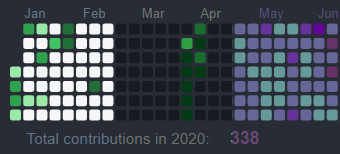
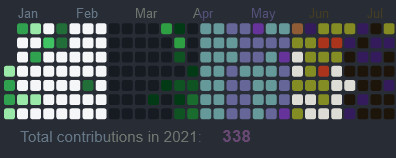
fixed memory leak

diff --git a/src/index.js b/src/index.js
@@ -9,14 +9,18 @@ const colors = {
     "THIRD_QUARTILE": '#196c2e', "FOURTH_QUARTILE": '#2ea043', plainFont: "#6C756E", highlightedFont: "#749179"},
     light: {"NONE": '#f5f6f8', "FIRST_QUARTILE": '#9be9a8', "SECOND_QUARTILE": '#40c463',"THIRD_QUARTILE": '#30a14e', 
     "FOURTH_QUARTILE": '#216e39', plainFont: "#657786", highlightedFont: "#48524d"},
-    purpleDark: {
-        "NONE": '#669999', 
-        "FIRST_QUARTILE": '#666699', 
-        "SECOND_QUARTILE": '#653399',
-        "THIRD_QUARTILE": '#663366', 
-        "FOURTH_QUARTILE": '#650099', 
-        plainFont: "#545179", 
-        highlightedFont: "#674973"
+    purpleDark: {"NONE": '#669999', "FIRST_QUARTILE": '#666699', "SECOND_QUARTILE": '#653399',
+    "THIRD_QUARTILE": '#663366', "FOURTH_QUARTILE": '#650099', plainFont: "#545179", highlightedFont: "#674973"},
+    jokerLight: {"NONE": '#ddddd5', "FIRST_QUARTILE": '#848c24', "SECOND_QUARTILE": '#905c35',
+    "THIRD_QUARTILE": '#ab341c', "FOURTH_QUARTILE": '#331b5c', plainFont: "#433c24", highlightedFont: "#1d140a"},
+    jokerDark: {
+        "NONE": '#1d140a', 
+        "FIRST_QUARTILE": '#331b5c', 
+        "SECOND_QUARTILE": '#ab341c',
+        "THIRD_QUARTILE": '#858a23', 
+        "FOURTH_QUARTILE": '#ddddd5', 
+        plainFont: "#433c24", 
+        highlightedFont: "#ab341c"
     }
 }
 
@@ -52,9 +56,11 @@ query ($userName:String!, $toDate:DateTime!, $fromDate: DateTime!) {
   }
 `;
 
-function GithubContributionCount({userName, toDate, fromDate, theme}) {
+function GithubContributionCount({userName, toDate, fromDate, theme, vertical}) {
     // Memoization allows the `useGraphQL` hook to avoid work in following renders
     // with the same GraphQL operation.
+    const [width, setWidth] = useState(640);
+    const [height, setHeight] = useState(137);
 
     const operation = React.useMemo(
       () => ({
@@ -91,13 +97,13 @@ function GithubContributionCount({userName, toDate, fromDate, theme}) {
         const weekData = contributions.weeks;
         const monthData = contributions.months;
         return (
-            <svg width="640" height="137">
+            <svg width={vertical ? height + 60 : width} height={vertical ? width / 1.5 : height}>
                 {
                     monthData.map((month, i) => (
                         <text
                             style={{fontFamily: 'Helvetica', fontSize: '12px'}}
-                            x={ 13 + i * 640 / 12} 
-                            y="20"
+                            x={vertical ? 35 : 13 + (i * width / 12)} 
+                            y={vertical ? 10 + (i * width  / 20) : 20}
                             fill={colors[theme].plainFont}
                             key={month.name}>{month.name}</text>
                         ))
@@ -107,11 +113,11 @@ function GithubContributionCount({userName, toDate, fromDate, theme}) {
                         week.contributionDays.map(day => (
                             <React.Fragment key={day.date}>
                                 <rect 
-                                    width="10" 
-                                    height="10" 
+                                    width={10} 
+                                    height={vertical ? 6 : 10} 
                                     fill={colors[theme][day.contributionLevel]}
-                                    x={i * 12} 
-                                    y={25 + day.weekday * 13}
+                                    x={vertical ? 60 + day.weekday * 11 : i * 12} 
+                                    y={vertical ? i * 7 : 25 + day.weekday * 13}
                                     rx="2"
                                     ry="2">
                                 </rect>
@@ -123,13 +129,13 @@ function GithubContributionCount({userName, toDate, fromDate, theme}) {
                     style={{fontFamily: 'Helvetica', fontSize: '14px'}}
                     fill={colors[theme].plainFont}
                     x="15" 
-                    y="134">Total contributions in {monthData[0].year}:
+                    y={vertical ?  2 + width / 1.6 : 134}>Total contributions in {monthData[0].year}:
                 </text>
                 <text 
                     style={{fontFamily: 'Helvetica', fontSize: '16px', fontWeight: 'bold'}}
                     fill={colors[theme].highlightedFont}
-                    x="200" 
-                    y="134">{contributions.totalContributions}
+                    x={vertical ? height / 1.7 : 200} 
+                    y={vertical ?  2 + width / 1.52 : 134}>{contributions.totalContributions}
                 </text>
             </svg>
         )
@@ -144,7 +150,7 @@ function GithubContributionCount({userName, toDate, fromDate, theme}) {
 
 const graphql = new GraphQL();
 
-function GithubContribution ({userName, theme}) {
+function GithubContribution ({userName, theme, vertical}) {
 
     const [dateRange, setDates] = useState({
         year: new Date().getFullYear(),
@@ -178,7 +184,12 @@ function GithubContribution ({userName, theme}) {
     return (
         <div>
             <GraphQLProvider graphql={graphql}>
-                <GithubContributionCount userName={userName} toDate={dateRange.toDate} fromDate={dateRange.fromDate} theme={theme} />
+                <GithubContributionCount 
+                    userName={userName} 
+                    toDate={dateRange.toDate} 
+                    fromDate={dateRange.fromDate} 
+                    theme={theme} 
+                    vertical={vertical} />
                 <svg width="640" height="10">
                     <polyline 
                         onClick={e => nextYear(e)}

diff --git a/lib/index.js b/lib/index.js
@@ -59,6 +59,24 @@ var colors = {
     "FOURTH_QUARTILE": '#650099',
     plainFont: "#545179",
     highlightedFont: "#674973"
+  },
+  jokerLight: {
+    "NONE": '#ddddd5',
+    "FIRST_QUARTILE": '#848c24',
+    "SECOND_QUARTILE": '#905c35',
+    "THIRD_QUARTILE": '#ab341c',
+    "FOURTH_QUARTILE": '#331b5c',
+    plainFont: "#433c24",
+    highlightedFont: "#1d140a"
+  },
+  jokerDark: {
+    "NONE": '#1d140a',
+    "FIRST_QUARTILE": '#331b5c',
+    "SECOND_QUARTILE": '#ab341c',
+    "THIRD_QUARTILE": '#858a23',
+    "FOURTH_QUARTILE": '#ddddd5',
+    plainFont: "#433c24",
+    highlightedFont: "#ab341c"
   }
 };
 
@@ -75,10 +93,21 @@ function GithubContributionCount(_ref) {
   var userName = _ref.userName,
       toDate = _ref.toDate,
       fromDate = _ref.fromDate,
-      theme = _ref.theme;
+      theme = _ref.theme,
+      vertical = _ref.vertical;
 
   // Memoization allows the `useGraphQL` hook to avoid work in following renders
   // with the same GraphQL operation.
+  var _useState = (0, _react.useState)(640),
+      _useState2 = _slicedToArray(_useState, 2),
+      width = _useState2[0],
+      setWidth = _useState2[1];
+
+  var _useState3 = (0, _react.useState)(137),
+      _useState4 = _slicedToArray(_useState3, 2),
+      height = _useState4[0],
+      setHeight = _useState4[1];
+
   var operation = _react["default"].useMemo(function () {
     return {
       query: query,
@@ -112,16 +141,16 @@ function GithubContributionCount(_ref) {
     var weekData = contributions.weeks;
     var monthData = contributions.months;
     return /*#__PURE__*/_react["default"].createElement("svg", {
-      width: "640",
-      height: "137"
+      width: vertical ? height + 60 : width,
+      height: vertical ? width / 1.5 : height
     }, monthData.map(function (month, i) {
       return /*#__PURE__*/_react["default"].createElement("text", {
         style: {
           fontFamily: 'Helvetica',
           fontSize: '12px'
         },
-        x: 13 + i * 640 / 12,
-        y: "20",
+        x: vertical ? 35 : 13 + i * width / 12,
+        y: vertical ? 10 + i * width / 20 : 20,
         fill: colors[theme].plainFont,
         key: month.name
       }, month.name);
@@ -130,11 +159,11 @@ function GithubContributionCount(_ref) {
         return /*#__PURE__*/_react["default"].createElement(_react["default"].Fragment, {
           key: day.date
         }, /*#__PURE__*/_react["default"].createElement("rect", {
-          width: "10",
-          height: "10",
+          width: 10,
+          height: vertical ? 6 : 10,
           fill: colors[theme][day.contributionLevel],
-          x: i * 12,
-          y: 25 + day.weekday * 13,
+          x: vertical ? 60 + day.weekday * 11 : i * 12,
+          y: vertical ? i * 7 : 25 + day.weekday * 13,
           rx: "2",
           ry: "2"
         }));
@@ -146,7 +175,7 @@ function GithubContributionCount(_ref) {
       },
       fill: colors[theme].plainFont,
       x: "15",
-      y: "134"
+      y: vertical ? 2 + width / 1.6 : 134
     }, "Total contributions in ", monthData[0].year, ":"), /*#__PURE__*/_react["default"].createElement("text", {
       style: {
         fontFamily: 'Helvetica',
@@ -154,8 +183,8 @@ function GithubContributionCount(_ref) {
         fontWeight: 'bold'
       },
       fill: colors[theme].highlightedFont,
-      x: "200",
-      y: "134"
+      x: vertical ? height / 1.7 : 200,
+      y: vertical ? 2 + width / 1.52 : 134
     }, contributions.totalContributions));
   } else {
     return loading ? /*#__PURE__*/_react["default"].createElement(_lib["default"], {
@@ -169,16 +198,17 @@ var graphql = new _graphqlReact.GraphQL();
 
 function GithubContribution(_ref2) {
   var userName = _ref2.userName,
-      theme = _ref2.theme;
+      theme = _ref2.theme,
+      vertical = _ref2.vertical;
 
-  var _useState = (0, _react.useState)({
+  var _useState5 = (0, _react.useState)({
     year: new Date().getFullYear(),
     toDate: new Date().toISOString(),
     fromDate: new Date("January 01 ".concat(new Date().getFullYear(), " 00:00:01 GMT-00:00")).toISOString()
   }),
-      _useState2 = _slicedToArray(_useState, 2),
-      dateRange = _useState2[0],
-      setDates = _useState2[1];
+      _useState6 = _slicedToArray(_useState5, 2),
+      dateRange = _useState6[0],
+      setDates = _useState6[1];
 
   var pastYear = function pastYear(e) {
     e.preventDefault();
@@ -211,7 +241,8 @@ function GithubContribution(_ref2) {
     userName: userName,
     toDate: dateRange.toDate,
     fromDate: dateRange.fromDate,
-    theme: theme
+    theme: theme,
+    vertical: vertical
   }), /*#__PURE__*/_react["default"].createElement("svg", {
     width: "640",
     height: "10"

diff --git a/src/lib/index.js b/src/lib/index.js
@@ -1,4 +1,4 @@
-import React, { useState } from 'react';
+import React, { useEffect, useState } from "react";
 
 export default function Loading ({width, height}) {
     let squaresX = [];
@@ -12,10 +12,14 @@ export default function Loading ({width, height}) {
     for (let i = 0; i < height / 36; i++) {
         squaresY.push(i);
     }
-    setTimeout(() => {
-        setX(Math.floor(Math.random() * squaresX.length))
-        setY(Math.floor(Math.random() * squaresY.length))
-    }, 100)
+    useEffect(() => {
+        let timeout = setInterval(() => {
+            setX(Math.floor(Math.random() * squaresX.length))
+            setY(Math.floor(Math.random() * squaresY.length))
+        }, 100);
+        return () => clearInterval(timeout);
+    }, [])
+
     return (
         <svg width={width} height={height}>
             {squaresX.map((squareX, i) => {
@@ -27,7 +31,8 @@ export default function Loading ({width, height}) {
                         x={640 / 3 + squareX * 12}
                         y={137 / 3 + squareY * 12}
                         rx="2"
-                        ry="2">
+                        ry="2"
+                        key={`coord${squareX}to${squareY}` }>
                     </rect>
                 ))
             })}

diff --git a/lib/lib/index.js b/lib/lib/index.js
@@ -49,10 +49,15 @@ function Loading(_ref) {
     squaresY.push(_i2);
   }
 
-  setTimeout(function () {
-    setX(Math.floor(Math.random() * squaresX.length));
-    setY(Math.floor(Math.random() * squaresY.length));
-  }, 100);
+  (0, _react.useEffect)(function () {
+    var timeout = setInterval(function () {
+      setX(Math.floor(Math.random() * squaresX.length));
+      setY(Math.floor(Math.random() * squaresY.length));
+    }, 100);
+    return function () {
+      return clearInterval(timeout);
+    };
+  }, []);
   return /*#__PURE__*/_react["default"].createElement("svg", {
     width: width,
     height: height
@@ -65,7 +70,8 @@ function Loading(_ref) {
         x: 640 / 3 + squareX * 12,
         y: 137 / 3 + squareY * 12,
         rx: "2",
-        ry: "2"
+        ry: "2",
+        key: "coord".concat(squareX, "to").concat(squareY)
       });
     });
   }));

diff --git a/readme.md b/readme.md
@@ -42,14 +42,14 @@ function App() {
   );
 }
 ```
+## Options
 ### Themes
 ![Theme examples](/image/themes.jpg)
-There are three options for now:
-```
-theme="light"
-theme="dark"
-theme="purpleDark"
-```
+Select one of these options for different theme:
+`"light", "dark", "purpleDark", "jokerLight", "jokerDark"
+### Direction
+ If you want it to have a different direction use attribute `vertical` in component. You don't need to pass any value in as it tests if it is true or false.
+
 
 ## Future versions
 Like I said I just started building it, and it is still a bit rough, so expect to get updated. But for the future as a whole, this project will probably become depreciated, as I am from Slovenia and there are no Front end developer roles here, as well as having a class system that doesn't allow me to have a decant job only some shitty jobs where you die as soon as your shift is over .
